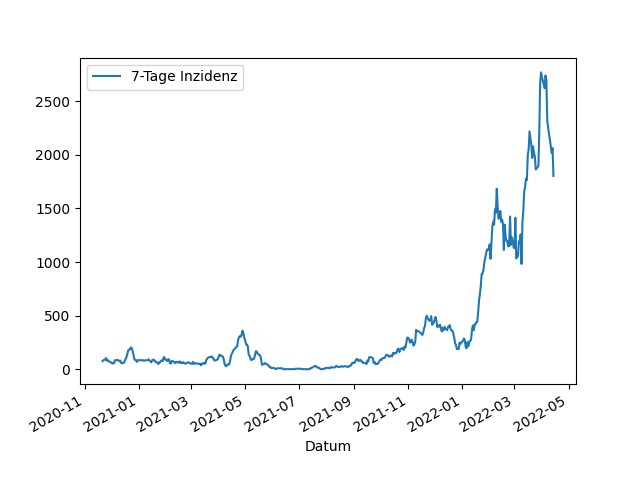
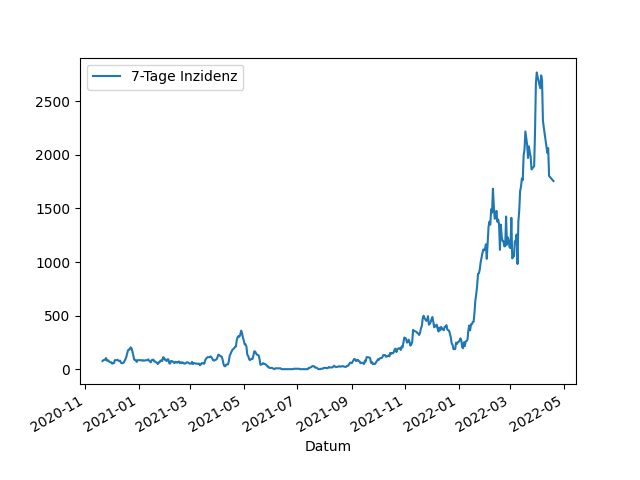
Update images

diff --git a/_includes/aktuelle_inzidenz.md b/_includes/aktuelle_inzidenz.md
@@ -1,1 +1,1 @@
-1804,2
+1756,3
